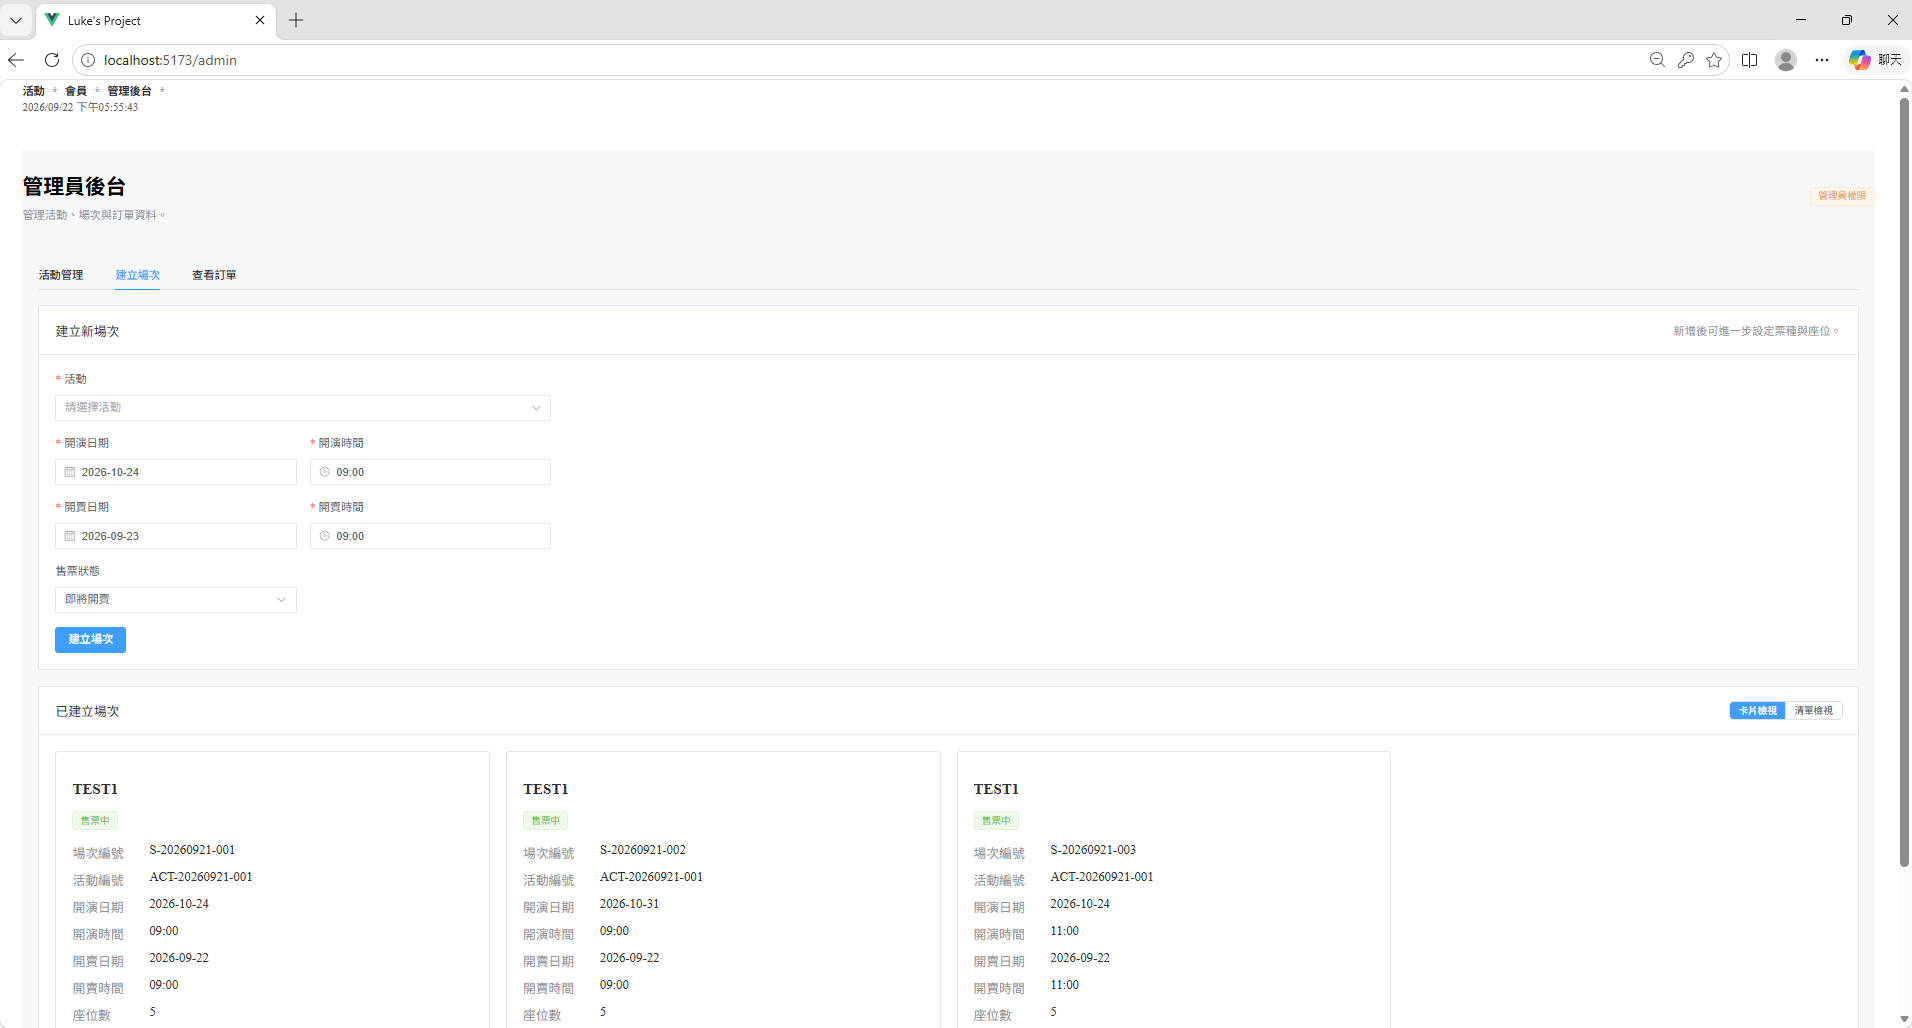
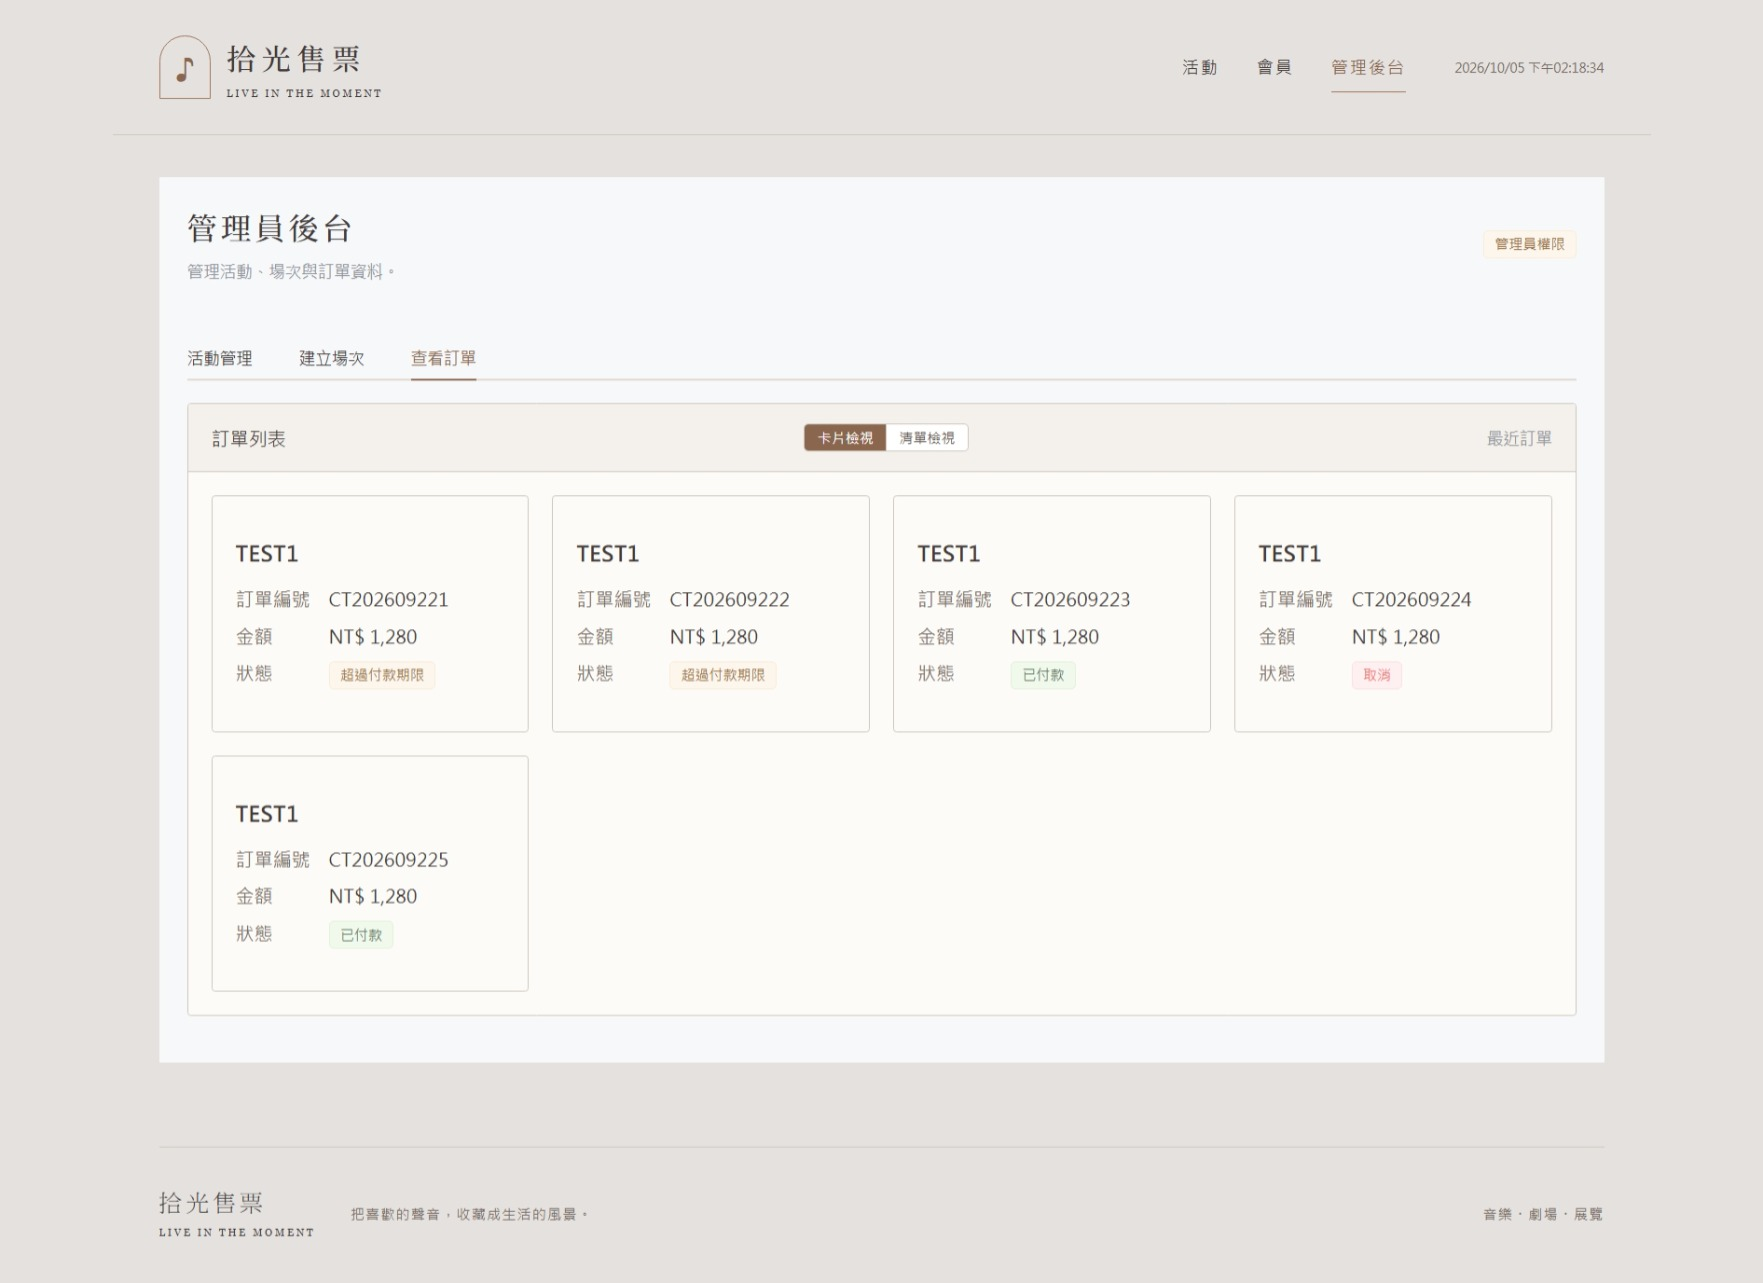
fix.畫面美化

diff --git a/concert-ticket-frontend/src/components/Activity.vue b/concert-ticket-frontend/src/components/Activity.vue
@@ -290,9 +290,24 @@ const myTicketsVisibleDialog = async () => {
 </script>
 
 <template>
+  <section class="experience-hero" aria-labelledby="experience-title">
+    <div class="hero-copy">
+      <p class="eyebrow">MUSIC · THEATRE · EXHIBITION</p>
+      <h2 id="experience-title">讓每一次相遇，<br>都成為值得珍藏的時光。</h2>
+      <p class="hero-description">一首歌、一場戲、一段心動的瞬間。<br>在這裡，找到屬於你的下一場精彩。</p>
+      <a href="#discover" class="discover-link">探索活動 <span aria-hidden="true">↗</span></a>
+    </div>
+    <div class="hero-art" aria-hidden="true">
+      <div class="art-arch"><div class="vinyl-record"><span>LIVE<br><i>the moment</i></span></div></div>
+      <span class="art-caption">A LITTLE MUSIC. A BEAUTIFUL LIFE.</span>
+      <span class="art-star">✳</span>
+    </div>
+    <span class="hero-edition" aria-hidden="true">THE EXPERIENCE COLLECTION / 01</span>
+  </section>
   <el-container class="activity-page">
-    <el-header class="page-header">
+    <el-header id="discover" class="page-header">
       <div>
+        <p class="eyebrow section-eyebrow">DISCOVER YOUR NEXT MOMENT</p>
         <h1>活動資訊</h1><el-text type="info">探索最新活動，找到屬於你的精彩體驗。</el-text>
       </div>
       <el-tag type="primary" effect="light">{{ filteredActivities.length }} 個活動</el-tag>
@@ -425,8 +440,27 @@ const myTicketsVisibleDialog = async () => {
 <style scoped>
 .activity-page {
   min-height: 100%;
-  background: #f7f8fa;
+  background: transparent;
 }
+
+.experience-hero { position: relative; display: grid; grid-template-columns: 1.2fr 1fr; min-height: 430px; background: #f3eee8; overflow: hidden; margin-bottom: 32px; }
+.hero-copy { padding: 60px 52px 64px; position: relative; z-index: 1; }
+.eyebrow { font-size: 10px; letter-spacing: 3px; color: #89664d; margin: 0 0 24px; }
+.hero-copy h2 { font-family: 'Noto Serif TC', 'PMingLiU', serif; font-size: clamp(26px, 3vw, 40px); font-weight: 500; line-height: 1.7; letter-spacing: 3px; margin: 0 0 20px; }
+.hero-description { color: #756b64; font-size: 13px; line-height: 2.1; letter-spacing: 1px; }
+.discover-link { display: inline-flex; align-items: center; gap: 42px; text-decoration: none; border-bottom: 1px solid #a1795c; padding: 14px 0 10px; font-size: 13px; letter-spacing: 2px; }
+.discover-link:hover { color: #89664d; }
+.hero-art { position: relative; display: flex; align-items: center; justify-content: center; background: #d8cec4; min-height: 430px; overflow: hidden; }
+.art-arch { position: relative; width: 68%; height: 340px; border-radius: 180px 180px 0 0; background: #b59b85; border: 1px solid #b19984; transform: translateY(36px); }
+.art-arch::before { content: ''; position: absolute; inset: -18px 18px 18px -18px; border: 1px solid #a1795c; border-radius: inherit; }
+.vinyl-record { position: absolute; width: 290px; max-width: 115%; aspect-ratio: 1; left: 50%; top: 44%; transform: translate(-50%, -50%) rotate(-15deg); border-radius: 50%; background: repeating-radial-gradient(circle, #433a3a 0 2px, #504641 3px 4px); box-shadow: 14px 24px 35px #433a3a30; display: grid; place-items: center; }
+.vinyl-record span { display: grid; align-content: center; text-align: center; width: 110px; height: 110px; border-radius: 50%; background: #e5d6c6; font: 23px Georgia, serif; letter-spacing: 4px; color: #433a3a; }
+.vinyl-record i { font-size: 12px; margin-top: 8px; letter-spacing: 0; }
+.art-caption { position: absolute; bottom: 22px; font-size: 8px; letter-spacing: 2px; }
+.art-star { position: absolute; right: 22px; top: 20px; color: #89664d; font-size: 55px; font-weight: 300; }
+.hero-edition { position: absolute; bottom: 20px; left: 52px; font-size: 8px; letter-spacing: 2px; color: #756b64; }
+.section-eyebrow { margin-bottom: 12px; }
+#discover { scroll-margin-top: 24px; }
 
 .page-header {
   height: auto;
@@ -448,6 +482,7 @@ const myTicketsVisibleDialog = async () => {
 
 .filter-form {
   display: flex;
+  flex-wrap: wrap;
   align-items: flex-end;
   gap: 12px;
 }
@@ -507,6 +542,14 @@ const myTicketsVisibleDialog = async () => {
 }
 
 @media (max-width: 767px) {
+  .experience-hero { grid-template-columns: 1fr; }
+  .hero-copy { padding: 32px 26px 50px; }
+  .hero-copy h2 { letter-spacing: 1px; }
+  .hero-art { min-height: 300px; }
+  .art-arch { width: 230px; height: 270px; transform: translateY(30px); }
+  .vinyl-record { width: 230px; }
+  .hero-edition { top: 16px; bottom: auto; left: auto; right: 16px; font-size: 7px; }
+  .hero-copy .eyebrow { margin-top: 12px; letter-spacing: 2px; font-size: 9px; }
   .page-header {
     flex-direction: column;
     align-items: flex-start;
@@ -515,7 +558,7 @@ const myTicketsVisibleDialog = async () => {
 
   .filter-form {
     display: grid;
-    gap: 0;
+    gap: 12px;
   }
 
   .filter-form :deep(.el-form-item),

diff --git a/concert-ticket-frontend/src/styles/theme.css b/concert-ticket-frontend/src/styles/theme.css
@@ -1,0 +1,71 @@
+:root:root {
+  font-family: 'Microsoft JhengHei', 'PingFang TC', sans-serif;
+  color: #433a3a;
+  background: #e5e1df;
+  --el-color-primary: #89664d;
+  --el-color-primary-light-3: #ad917c;
+  --el-color-primary-light-5: #c4af9f;
+  --el-color-primary-light-7: #dcd0c7;
+  --el-color-primary-light-8: #e7dfd8;
+  --el-color-primary-light-9: #f3eeea;
+  --el-color-primary-dark-2: #6d503c;
+  --el-color-success: #60765f;
+  --el-color-warning: #987044;
+  --el-color-danger: #a45852;
+  --el-text-color-primary: #433a3a;
+  --el-text-color-regular: #5e5550;
+  --el-text-color-secondary: #756b64;
+  --el-border-color: #cfc7be;
+  --el-border-color-light: #e1d9d1;
+  --el-border-color-lighter: #eae3dc;
+  --el-fill-color-light: #f4f0ec;
+  --el-fill-color-lighter: #f8f5f1;
+  --el-bg-color: #fdfbf8;
+  --el-bg-color-overlay: #fdfbf8;
+  --el-border-radius-base: 3px;
+}
+* { box-sizing: border-box; }
+body { margin: 0; }
+a { color: inherit; }
+button, input, select { font: inherit; }
+button:focus-visible, a:focus-visible { outline: 2px solid #89664d; outline-offset: 5px; }
+.site-shell { min-height: 100vh; }
+.site-header { max-width: 1320px; margin: auto; min-height: 116px; padding: 24px 40px; display: flex; align-items: center; gap: 42px; border-bottom: 1px solid #cfc7be; }
+.site-brand { display: flex; gap: 14px; align-items: center; text-decoration: none; }
+.brand-emblem { width: 44px; height: 54px; border: 1px solid #a1795c; border-radius: 24px 24px 0 0; display: grid; place-items: center; font-size: 30px; color: #89664d; }
+.site-brand strong { display: block; font-family: 'Noto Serif TC', 'PMingLiU', serif; font-size: 25px; letter-spacing: 5px; font-weight: 500; }
+.site-brand small { display: block; font-family: Georgia, serif; font-size: 9px; letter-spacing: 2px; margin-top: 8px; }
+.site-nav { display: flex; gap: 32px; margin-left: auto; }
+.site-nav a { text-decoration: none; padding: 12px 0; letter-spacing: 2px; font-size: 14px; border-bottom: 1px solid transparent; }
+.site-nav a:hover, .site-nav .is-active { color: #89664d; border-bottom-color: #a1795c; }
+.site-clock { font-size: 11px; color: #756b64; font-variant-numeric: tabular-nums; }
+.site-main { max-width: 1320px; margin: auto; padding: 36px 40px 72px; }
+.site-main .activity-page, .site-main .user-page, .site-main .booking-page, .site-main .admin-page { background: transparent; }
+.site-main .el-main { padding: 20px 0; }
+.site-main .page-header h1 { font-family: 'Noto Serif TC', 'PMingLiU', serif; font-weight: 500; letter-spacing: 3px; }
+.site-shell .el-card { --el-card-border-color: #cfc7be; --el-card-bg-color: #fdfbf8; border-radius: 3px; }
+.el-card__header { background: #f4f0eb; }
+.el-button { letter-spacing: 1px; }
+.el-button--primary:not(.is-plain):not(.is-text):not(.is-link) { background: #89664d; border-color: #89664d; }
+.el-button--primary:not(.is-plain):not(.is-text):not(.is-link):hover { background: #6d503c; border-color: #6d503c; }
+.site-shell .el-table { --el-table-header-bg-color: #eee7df; --el-table-tr-bg-color: #fdfbf8; --el-table-row-hover-bg-color: #f1e9e0; }
+.el-table th.el-table__cell { font-weight: 500; letter-spacing: 1px; }
+.el-table td.el-table__cell { padding-top: 18px; padding-bottom: 18px; }
+.site-shell .el-table__empty-text { width: 100%; line-height: 1.8; padding: 24px 12px; }
+.site-footer { max-width: 1240px; margin: 0 auto; padding: 36px 0 40px; border-top: 1px solid #cfc7be; display: flex; align-items: center; gap: 30px; }
+.footer-brand { text-decoration: none; font-family: 'PMingLiU', serif; font-size: 20px; letter-spacing: 3px; }
+.footer-brand span { display: block; margin-top: 8px; font: 9px Georgia, serif; letter-spacing: 2px; }
+.site-footer p, .footer-note { font-size: 12px; color: #756b64; letter-spacing: 1px; }
+.footer-note { margin-left: auto; }
+@media (max-width: 1000px) {
+  .site-clock { display: none; }
+  .site-footer { margin: 0 40px; }
+}
+@media (max-width: 600px) {
+  .site-header { padding: 20px; flex-wrap: wrap; gap: 20px; }
+  .site-brand strong { font-size: 23px; }
+  .site-nav { width: 100%; margin: 0; justify-content: space-between; gap: 16px; }
+  .site-main { padding: 24px 20px 40px; }
+  .site-footer { margin: 0 20px; flex-direction: column; align-items: flex-start; gap: 10px; }
+  .footer-note { margin-left: 0; }
+}

diff --git a/concert-ticket-frontend/src/App.vue b/concert-ticket-frontend/src/App.vue
@@ -1,31 +1,37 @@
 <script setup>
 import {dateConversionYMDhms} from "@/components/componentsJs/ConvertPadding";
+import '@/styles/theme.css'
 
-const date = ref('')
+const date = ref(dateConversionYMDhms(true))
 
-setInterval(() => {
+const clockInterval = setInterval(() => {
   date.value = dateConversionYMDhms(true)
 }, 1000)
+onUnmounted(() => clearInterval(clockInterval))
 
 </script>
 
 <template>
-  <el-container>
-    <el-header>
-      <el-breadcrumb separator="*">
-        <el-breadcrumb-item :to="{ path: '/' }">活動</el-breadcrumb-item>
-        <el-breadcrumb-item :to="{ path: '/user' }">會員</el-breadcrumb-item>
-        <el-breadcrumb-item :to="{ path: '/admin' }">管理後台</el-breadcrumb-item>
-        <el-breadcrumb-item></el-breadcrumb-item>
-      </el-breadcrumb>
-      <el-text>{{ date }}</el-text>
-    </el-header>
-    <el-container>
-      <el-main>
-        <router-view/>
-      </el-main>
-    </el-container>
-  </el-container>
+  <div class="site-shell">
+    <header class="site-header">
+      <router-link class="site-brand" to="/" aria-label="回到活動首頁">
+        <span class="brand-emblem" aria-hidden="true">♪</span>
+        <span><strong>拾光售票</strong><small>LIVE IN THE MOMENT</small></span>
+      </router-link>
+      <nav class="site-nav" aria-label="主要導覽">
+        <router-link to="/" exact-active-class="is-active">活動</router-link>
+        <router-link to="/user" active-class="is-active">會員</router-link>
+        <router-link to="/admin" active-class="is-active">管理後台</router-link>
+      </nav>
+      <time class="site-clock">{{ date }}</time>
+    </header>
+    <main class="site-main"><router-view /></main>
+    <footer class="site-footer">
+      <router-link to="/" class="footer-brand">拾光售票 <span>LIVE IN THE MOMENT</span></router-link>
+      <p>把喜歡的聲音，收藏成生活的風景。</p>
+      <span class="footer-note">音樂・劇場・展覽</span>
+    </footer>
+  </div>
 </template>
 
 <style scoped>

diff --git a/concert-ticket-frontend/src/components/Admin.vue b/concert-ticket-frontend/src/components/Admin.vue
@@ -431,7 +431,7 @@ const statusType = (status) => (
       </div>
       <el-tag type="warning" effect="light">管理員權限</el-tag>
     </el-header>
-    <el-main>
+    <el-main class="admin-main">
       <el-tabs v-model="activeTab" class="admin-tabs">
         <el-tab-pane label="活動管理" name="activities">
           <el-card shadow="never" class="filter-card">
@@ -866,10 +866,14 @@ const statusType = (status) => (
 
 .page-header {
   height: auto;
-  padding: 24px 0;
+  padding: 24px;
   display: flex;
   align-items: center;
   justify-content: space-between;
+}
+
+.admin-page > .admin-main {
+  padding: 20px 24px;
 }
 
 .page-header h1 {

diff --git a/concert-ticket-frontend/index.html b/concert-ticket-frontend/index.html
@@ -1,10 +1,12 @@
 <!DOCTYPE html>
-<html lang="en">
+<html lang="zh-Hant">
   <head>
     <meta charset="UTF-8">
-    <link rel="icon" href="/favicon.ico">
+    <link rel="icon" type="image/x-icon" href="/favicon.ico?v=concert-ticket">
     <meta name="viewport" content="width=device-width, initial-scale=1.0">
-    <title>Luke's Project</title>
+    <meta name="theme-color" content="#e5e1df">
+    <meta name="description" content="拾光售票，探索音樂、劇場與展覽，找到屬於你的下一場精彩。">
+    <title>拾光售票｜珍藏每一次精彩</title>
   </head>
   <body>
     <div id="app"></div>

diff --git a/concert-ticket-frontend/src/components/Booking.vue b/concert-ticket-frontend/src/components/Booking.vue
@@ -265,7 +265,7 @@ const createOrder = async () => {
 
 .page-header {
   height: auto;
-  padding: 24px 0;
+  padding: 24px;
   display: flex;
   justify-content: space-between;
   align-items: center;

diff --git a/concert-ticket-frontend/src/components/User.vue b/concert-ticket-frontend/src/components/User.vue
@@ -431,7 +431,7 @@ const logout = async () => {
 
 .page-header {
   height: auto;
-  padding: 24px 0;
+  padding: 24px;
   display: flex;
   justify-content: space-between;
   align-items: center;

diff --git a/concert-ticket-backend/README.md b/concert-ticket-backend/README.md
@@ -208,7 +208,7 @@ REFRESH_COOKIE_SECURE=false
 .\mvnw.cmd spring-boot:run
 ```
 
-Spring 預設讀取啟動工作目錄的 `.env`，因此上述方式讀取後端 `.env`。若希望改讀根目錄 `.env`，可在同一終端機啟動前設定 `$env:SPRING_CONFIG_IMPORT = 'optional:file:../.env[.properties]'`；此覆寫仍存在時，修改後端 `.env` 不會生效。IDE 的工作目錄也會影響讀取位置。
+從專案根目錄或後端目錄啟動時，Spring 都會載入根目錄 `.env` 與 `concert-ticket-backend/.env`；只放其中一份也可以。兩份設定會合併，同名參數以後端 `.env` 優先，修改後需重新啟動。系統或 IDE 的環境變數仍優先於檔案；若曾設定 `SPRING_CONFIG_IMPORT`，請移除此覆寫以使用上述載入規則。
 
 預設本機連線設定：
 
